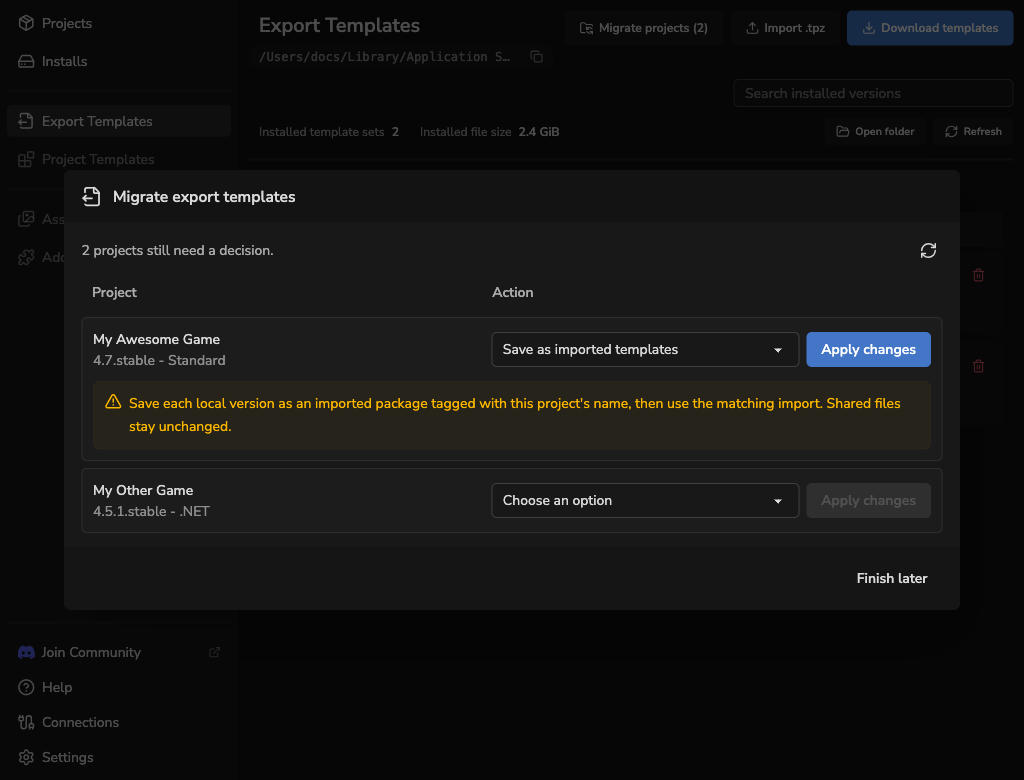
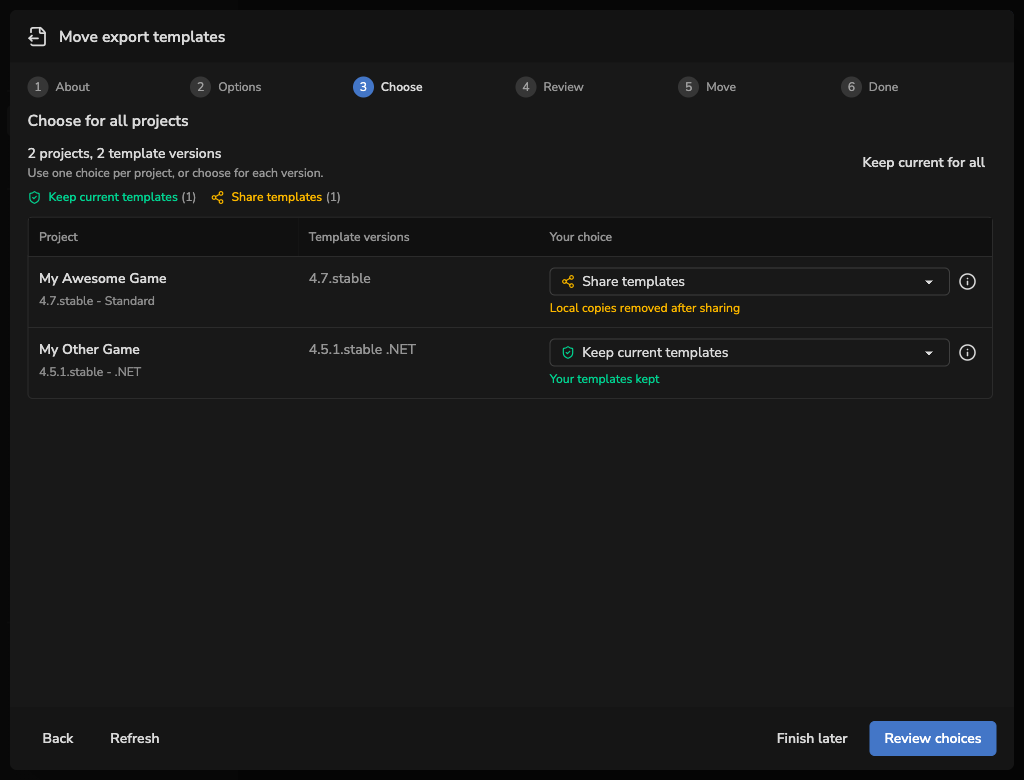
docs(export-templates): explain reviewed migration and download recovery

diff --git a/docs/reference/storage-paths.md b/docs/reference/storage-paths.md
@@ -45,9 +45,9 @@ Changing the editor install location does not move export templates. Use the tem
 
 :::
 
-In the project's editor environment, `editor_data/export_templates` connects to the shared collection when **Official** is selected. For a selected imported build, it contains a version link to that build. Choices for other editor versions are remembered, but only the current editor's imported build is connected. Other `editor_data` contents remain separate.
+In the project's editor environment, `editor_data/export_templates` can connect to the shared Official collection or contain a separate connection for each migrated version. Each migrated version uses its selected Official collection or Imported build. Versions left for later keep their local folders, and other `editor_data` contents remain separate.
 
-Some project environments also have `editor_data/launcher_export_templates/official` for their managed Official connection. Leave these connections under the launcher's control; use the migration review for existing local template files.
+Some older project environments use `editor_data/launcher_export_templates/official` to hold their template folders and version connections. Leave these connections under the launcher's control; use the migration review for existing local template files.
 
 See [Export Templates](../editors/export-templates.mdx) for downloads, migration, build selection, and storage moves.
 
